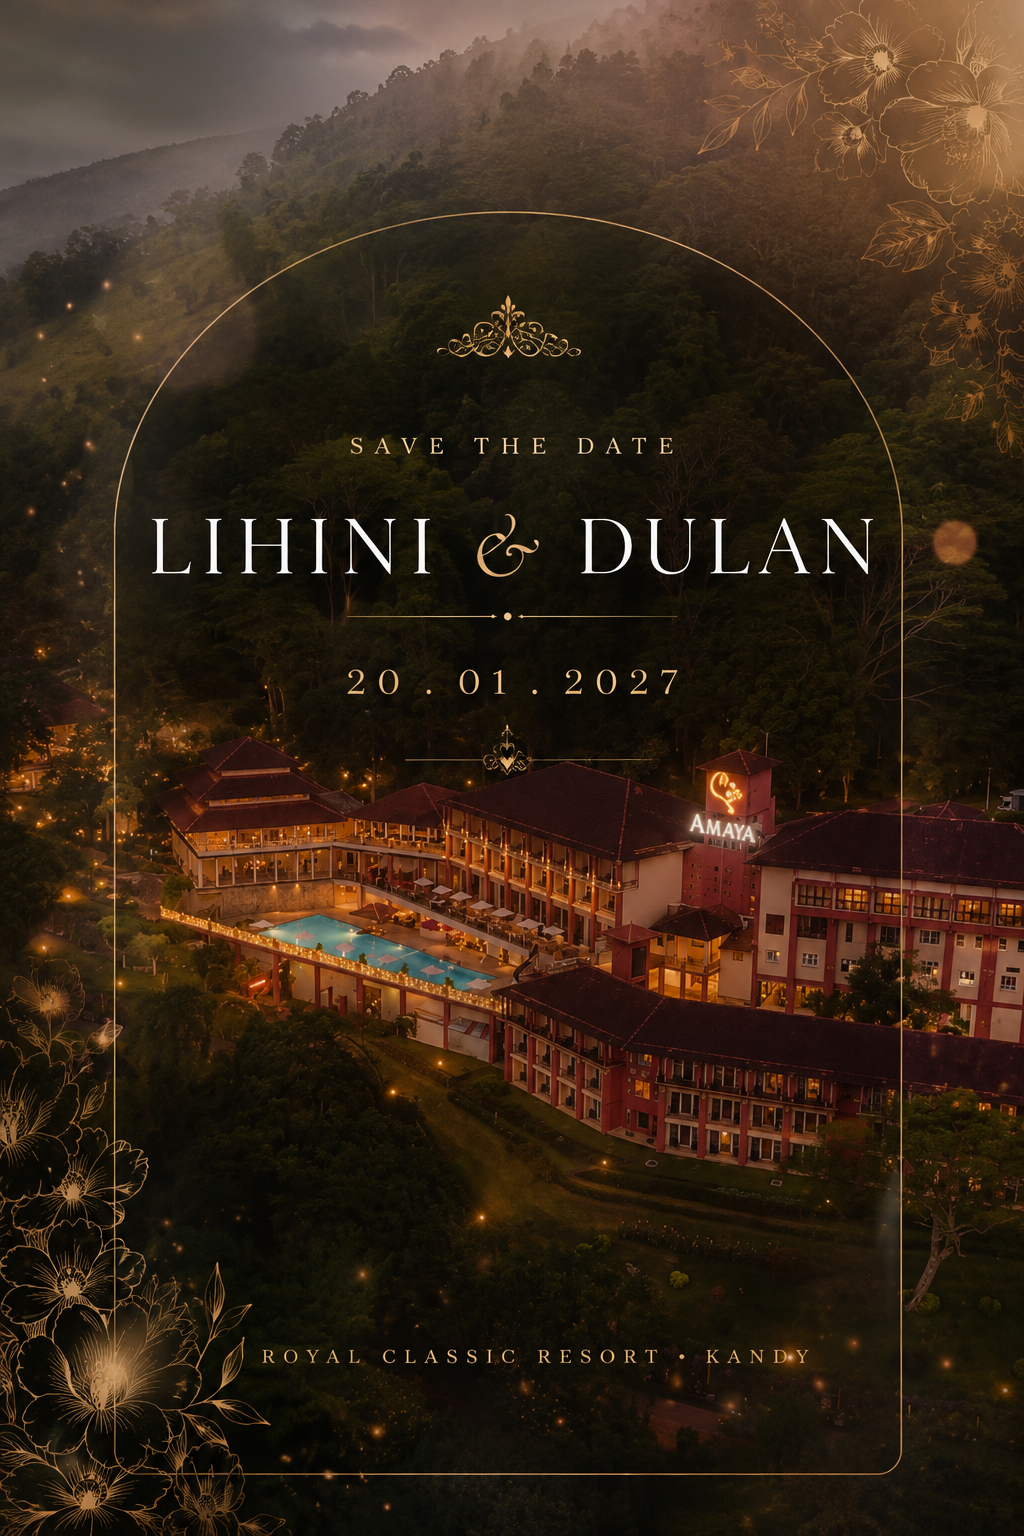
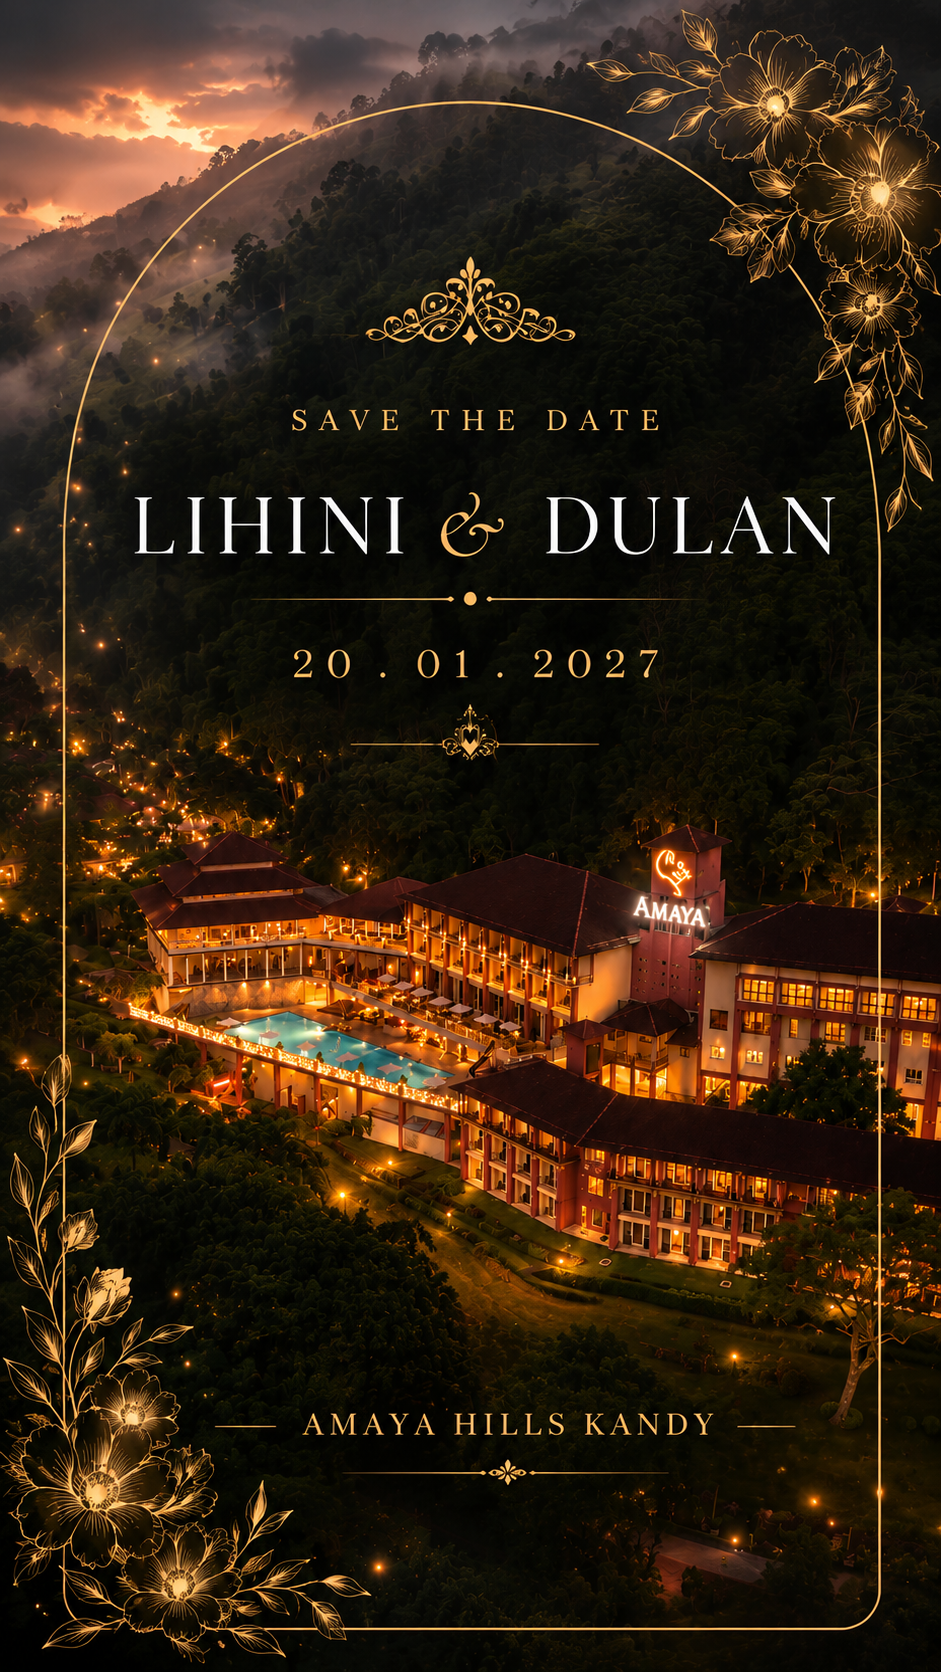
ll

diff --git a/src/components/CeremonyDetails.tsx b/src/components/CeremonyDetails.tsx
@@ -30,7 +30,7 @@ export const CeremonyDetails: React.FC = () => {
             </h2>
 
             <p className="text-stone-500/90 font-serif text-lg sm:text-xl leading-relaxed mb-16 max-w-lg">
-              We are honored to invite you to witness our union as we exchange vows in a traditional Poruwa ceremony, surrounded by the beauty of nature and the warmth of our loved ones.
+              request the honour of your presence at the celebration of their marriage and to bless them as they embark upon a lifetime together.
             </p>
 
             {/* Premium Timeline */}
@@ -42,7 +42,7 @@ export const CeremonyDetails: React.FC = () => {
                   <Calendar className="w-5 h-5 text-brand-primary group-hover:scale-110 transition-transform duration-500" />
                 </div>
                 <div>
-                  <h4 className="font-serif text-2xl sm:text-3xl text-stone-800 mb-2 group-hover:text-brand-gold-deep transition-colors duration-500">Wednesday, January 20</h4>
+                  <h4 className="font-serif text-2xl sm:text-3xl text-stone-800 mb-2 group-hover:text-brand-gold-deep transition-colors duration-500">Friday, January 22</h4>
                   <p className="text-stone-500/80 text-[10px] sm:text-[11px] uppercase tracking-[0.3em] font-bold">The Year Two Thousand Twenty Seven</p>
                 </div>
               </div>
@@ -53,8 +53,8 @@ export const CeremonyDetails: React.FC = () => {
                   <Clock className="w-5 h-5 text-brand-gold-deep group-hover:scale-110 transition-transform duration-500" />
                 </div>
                 <div>
-                  <h4 className="font-serif text-2xl sm:text-3xl text-stone-800 mb-2 group-hover:text-brand-gold-deep transition-colors duration-500">09:30 AM</h4>
-                  <p className="text-stone-500/80 text-[10px] sm:text-[11px] uppercase tracking-[0.3em] font-bold">Poruwa Ceremony - 9.45 AM</p>
+                  <h4 className="font-serif text-2xl sm:text-3xl text-stone-800 mb-2 group-hover:text-brand-gold-deep transition-colors duration-500">10:00 AM</h4>
+                  <p className="text-stone-500/80 text-[10px] sm:text-[11px] uppercase tracking-[0.3em] font-bold">Poruwa Ceremony - 10.00 a.m.</p>
                 </div>
               </div>
 
@@ -64,7 +64,7 @@ export const CeremonyDetails: React.FC = () => {
                   <MapPin className="w-5 h-5 text-brand-gold-deep group-hover:scale-110 transition-transform duration-500" />
                 </div>
                 <div>
-                  <h4 className="font-serif text-2xl sm:text-3xl text-stone-800 mb-2 group-hover:text-brand-gold-deep transition-colors duration-500">Royal Classic Resort</h4>
+                  <h4 className="font-serif text-2xl sm:text-3xl text-stone-800 mb-2 group-hover:text-brand-gold-deep transition-colors duration-500">Amaya Hills</h4>
                   <p className="text-stone-500/80 text-[10px] sm:text-[11px] uppercase tracking-[0.3em] font-bold">Kandy, Sri Lanka</p>
                 </div>
               </div>

diff --git a/src/components/Footer.tsx b/src/components/Footer.tsx
@@ -42,36 +42,7 @@ export const Footer: React.FC = () => {
           "A journey of a thousand miles begins with a single step, and we're so incredibly happy to take it together."
         </p>
 
-        <div className="w-full h-[1px] bg-gradient-to-r from-transparent via-brand-primary/50 to-transparent mb-12" />
 
-        <div className="max-w-xl mx-auto mb-12 rounded-3xl border border-brand-primary/30 bg-brand-champagne/60 px-6 py-7 sm:px-8 text-center flex flex-col sm:flex-row justify-around">
-          <div>
-            <h3 className="text-xl sm:text-2xl font-display text-stone-800 mb-2">RSVP</h3>
-            <p className="text-xs sm:text-sm uppercase tracking-[0.22em] text-brand-primary font-semibold mb-4">Dulan</p>
-            <div className="flex flex-col gap-2 text-sm sm:text-base text-stone-700">
-              <a
-                href="tel:+94786128365"
-                className="hover:text-brand-primary transition-colors"
-                aria-label="Call Dulan"
-              >
-                +94 78 612 8365
-              </a>
-            </div>
-          </div>
-          <div className="mt-6 sm:mt-0">
-            <h3 className="text-xl sm:text-2xl font-display text-stone-800 mb-2">&nbsp;</h3>
-            <p className="text-xs sm:text-sm uppercase tracking-[0.22em] text-brand-primary font-semibold mb-4">Lihini</p>
-            <div className="flex flex-col gap-2 text-sm sm:text-base text-stone-700">
-              <a
-                href="tel:+94769121479"
-                className="hover:text-brand-primary transition-colors"
-                aria-label="Call Lihini"
-              >
-                +94 76 912 1479
-              </a>
-            </div>
-          </div>
-        </div>
 
         <div className="flex flex-col items-center justify-center gap-4">
           <div className="text-[10px] sm:text-xs text-stone-400 font-bold uppercase tracking-[0.3em]">

diff --git a/src/components/CoupleDetails.tsx b/src/components/CoupleDetails.tsx
@@ -38,7 +38,7 @@ export const CoupleDetails: React.FC = () => {
           <div className="mb-4 flex flex-col items-center lg:items-end">
             <span className="text-brand-primary uppercase tracking-[0.4em] text-[10px] font-bold mb-3 block">The Groom</span>
             <h3 className="text-4xl sm:text-5xl font-display text-stone-800 mb-2 drop-shadow-sm">Dulan</h3>
-            <p className="text-stone-500/90 font-serif italic text-base sm:text-lg">Son of Mr. & Mrs. Damunugalla</p>
+            <p className="text-stone-500/90 font-serif italic text-base sm:text-lg">Beloved Son of Mr. & Mrs. Damunugalla</p>
           </div>
           <div className="hidden lg:flex justify-end mt-8">
             <Heart className="w-6 h-6 text-brand-pink/80 fill-brand-pink/30 transform hover:scale-110 transition-transform cursor-pointer drop-shadow-sm" />
@@ -69,7 +69,7 @@ export const CoupleDetails: React.FC = () => {
           <div className="mb-4 flex flex-col items-center lg:items-start">
             <span className="text-brand-primary uppercase tracking-[0.4em] text-[10px] font-bold mb-3 block">The Bride</span>
             <h3 className="text-4xl sm:text-5xl font-display text-stone-800 mb-2 drop-shadow-sm">Lihini</h3>
-            <p className="text-stone-500/90 font-serif italic text-base sm:text-lg">Daughter of Mr. & Mrs. Wijekoon</p>
+            <p className="text-stone-500/90 font-serif italic text-base sm:text-lg">Beloved Daughter of Mr. & Mrs. Wijekoon</p>
           </div>
           <div className="hidden lg:flex justify-start mt-8">
             <Heart className="w-6 h-6 text-brand-pink/80 fill-brand-pink/30 transform hover:scale-110 transition-transform cursor-pointer drop-shadow-sm" />

diff --git a/src/components/RSVPForm.tsx b/src/components/RSVPForm.tsx
@@ -77,9 +77,24 @@ export const RSVPForm: React.FC = () => {
           </h2>
           
           <p className="text-stone-500/90 font-serif text-lg leading-relaxed mb-6">
-            Your presence means the world to us. Please kindly let us know if you will be able to join our celebration.
+            Your gracious presence and blessings will make our celebration truly memorable. Please kindly let us know if you will be able to join us.
           </p>
-          <div className="w-12 h-[1px] bg-brand-primary/50 mx-auto lg:mx-0" />
+          <div className="w-12 h-[1px] bg-brand-primary/50 mx-auto lg:mx-0 mb-8" />
+          
+          <div className="flex flex-col sm:flex-row gap-8 justify-center lg:justify-start">
+            <div>
+              <p className="text-[10px] sm:text-[11px] uppercase tracking-[0.22em] font-bold text-stone-500 mb-1">Lihini</p>
+              <a href="tel:0769121479" className="text-lg sm:text-xl font-serif italic text-brand-primary hover:text-brand-primary-deep transition-colors">
+                076 912 1479
+              </a>
+            </div>
+            <div>
+              <p className="text-[10px] sm:text-[11px] uppercase tracking-[0.22em] font-bold text-stone-500 mb-1">Dulan</p>
+              <a href="tel:0786128365" className="text-lg sm:text-xl font-serif italic text-brand-primary hover:text-brand-primary-deep transition-colors">
+                078 612 8365
+              </a>
+            </div>
+          </div>
         </div>
 
         {/* Right Side: Flowing Form */}

diff --git a/src/components/Location.tsx b/src/components/Location.tsx
@@ -3,9 +3,9 @@ import { motion } from 'motion/react';
 import { MapPin, Navigation, Compass, Map } from 'lucide-react';
 
 export const Location: React.FC = () => {
-   const venueAddress = "Royal Classic Resort, Kandy";
+   const venueAddress = "Amaya Hills, Kandy";
   const mapUrl = `https://www.google.com/maps/embed?pb=!1m18!1m12!1m3!1d3960.8443924765634!2d79.9168925!3d6.9056!2m3!1f0!2f0!3f0!3m2!1i1024!2i768!4f13.1!3m3!1m2!1s0x3ae2597405e3e60d%3A0xc07a81080344d183!2sWaters%20Edge!5e0!3m2!1sen!2slk!4v1714736345678!5m2!1sen!2slk`;
-  const liveLocationUrl = "https://maps.app.goo.gl/uXpD3Bf4s4FmS8yJ6";
+  const liveLocationUrl = "https://maps.app.goo.gl/zUZsrVmkAQmWkJqH6";
 
   return (
     <div className="max-w-[85rem] mx-auto px-6 relative py-12">
@@ -45,7 +45,7 @@ export const Location: React.FC = () => {
                   <MapPin className="text-brand-primary-light w-5 h-5" />
                 </div>
                 <div>
-                  <p className="text-2xl font-serif text-white mb-1">Royal Classic Resort</p>
+                  <p className="text-2xl font-serif text-white mb-1">Amaya Hills</p>
                   <p className="text-[11px] uppercase tracking-[0.2em] font-medium text-blue-100/60 leading-relaxed mb-6">Kandy, Sri Lanka</p>
 
                   <p className="text-blue-100/80 italic font-serif text-lg leading-relaxed max-w-sm mb-10 pl-4 border-l-[1.5px] border-brand-primary-light/40">

diff --git a/src/App.tsx b/src/App.tsx
@@ -20,7 +20,7 @@ export default function App() {
   const [isMusicPlaying, setIsMusicPlaying] = useState(false);
   const audioRef = useRef<HTMLAudioElement | null>(null);
 
-  const weddingDate = new Date('2027-01-20T09:30:00');
+  const weddingDate = new Date('2027-01-22T10:00:00');
 
   const startMusic = () => {
     if (audioRef.current && !isMusicPlaying) {
